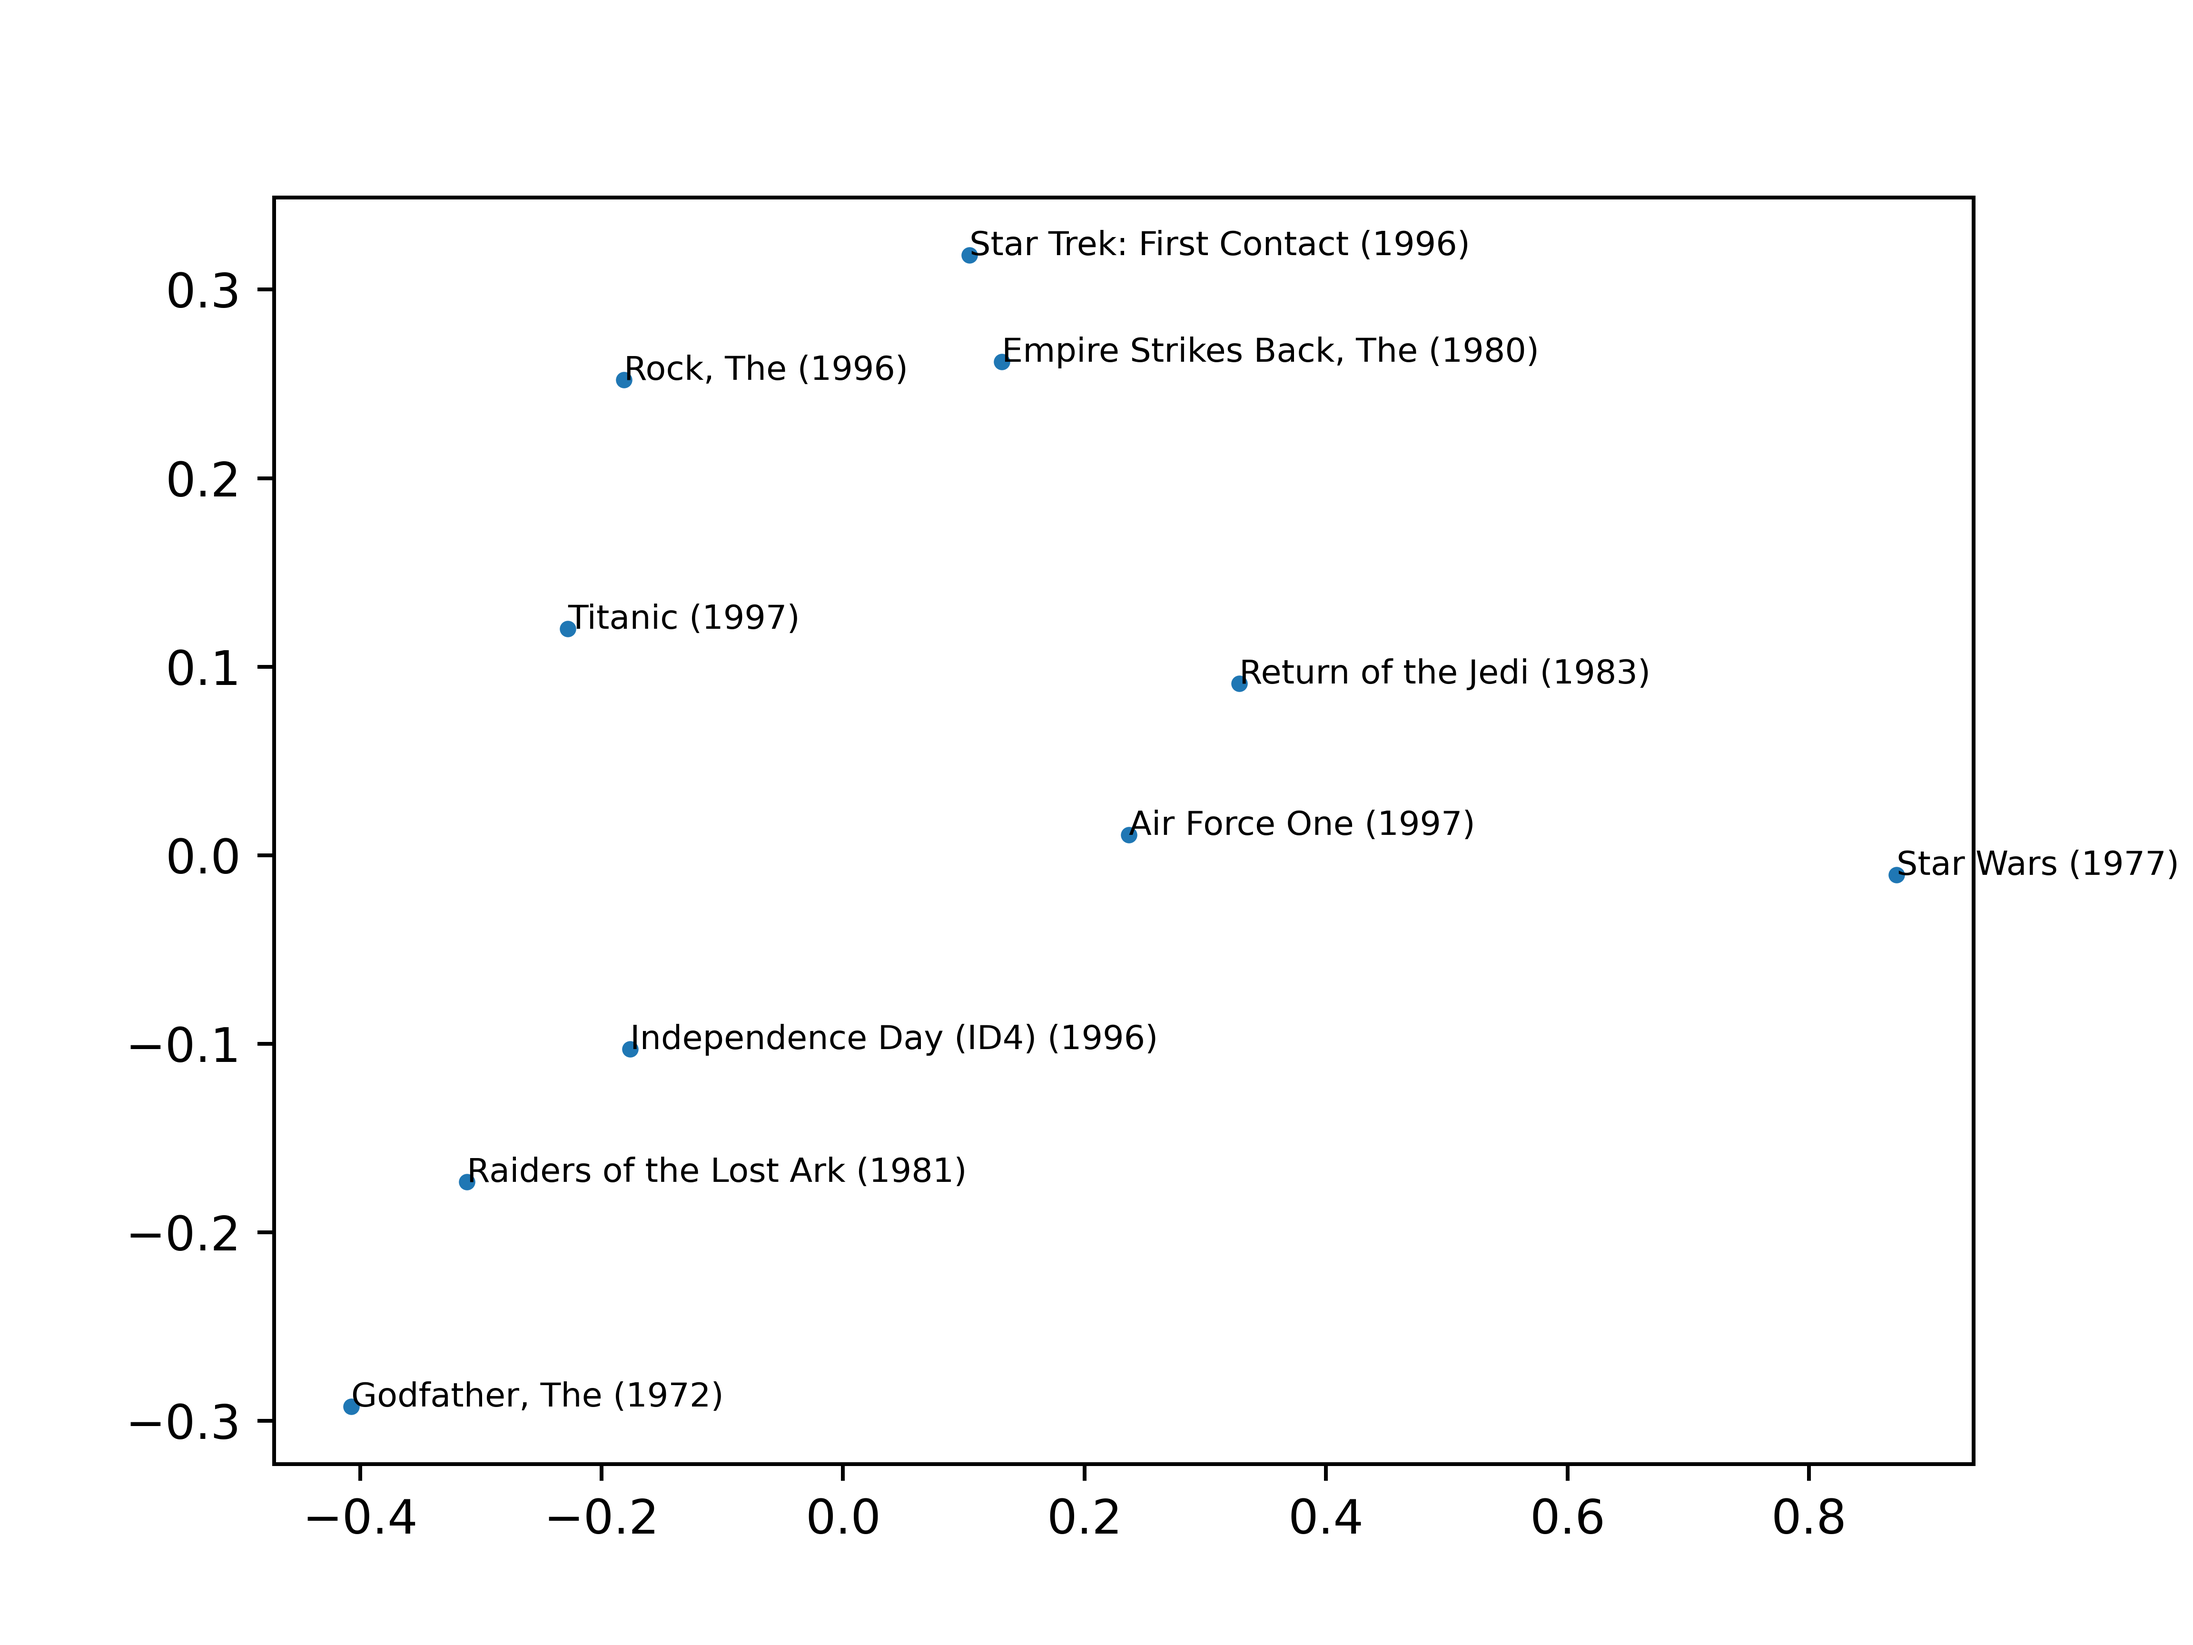
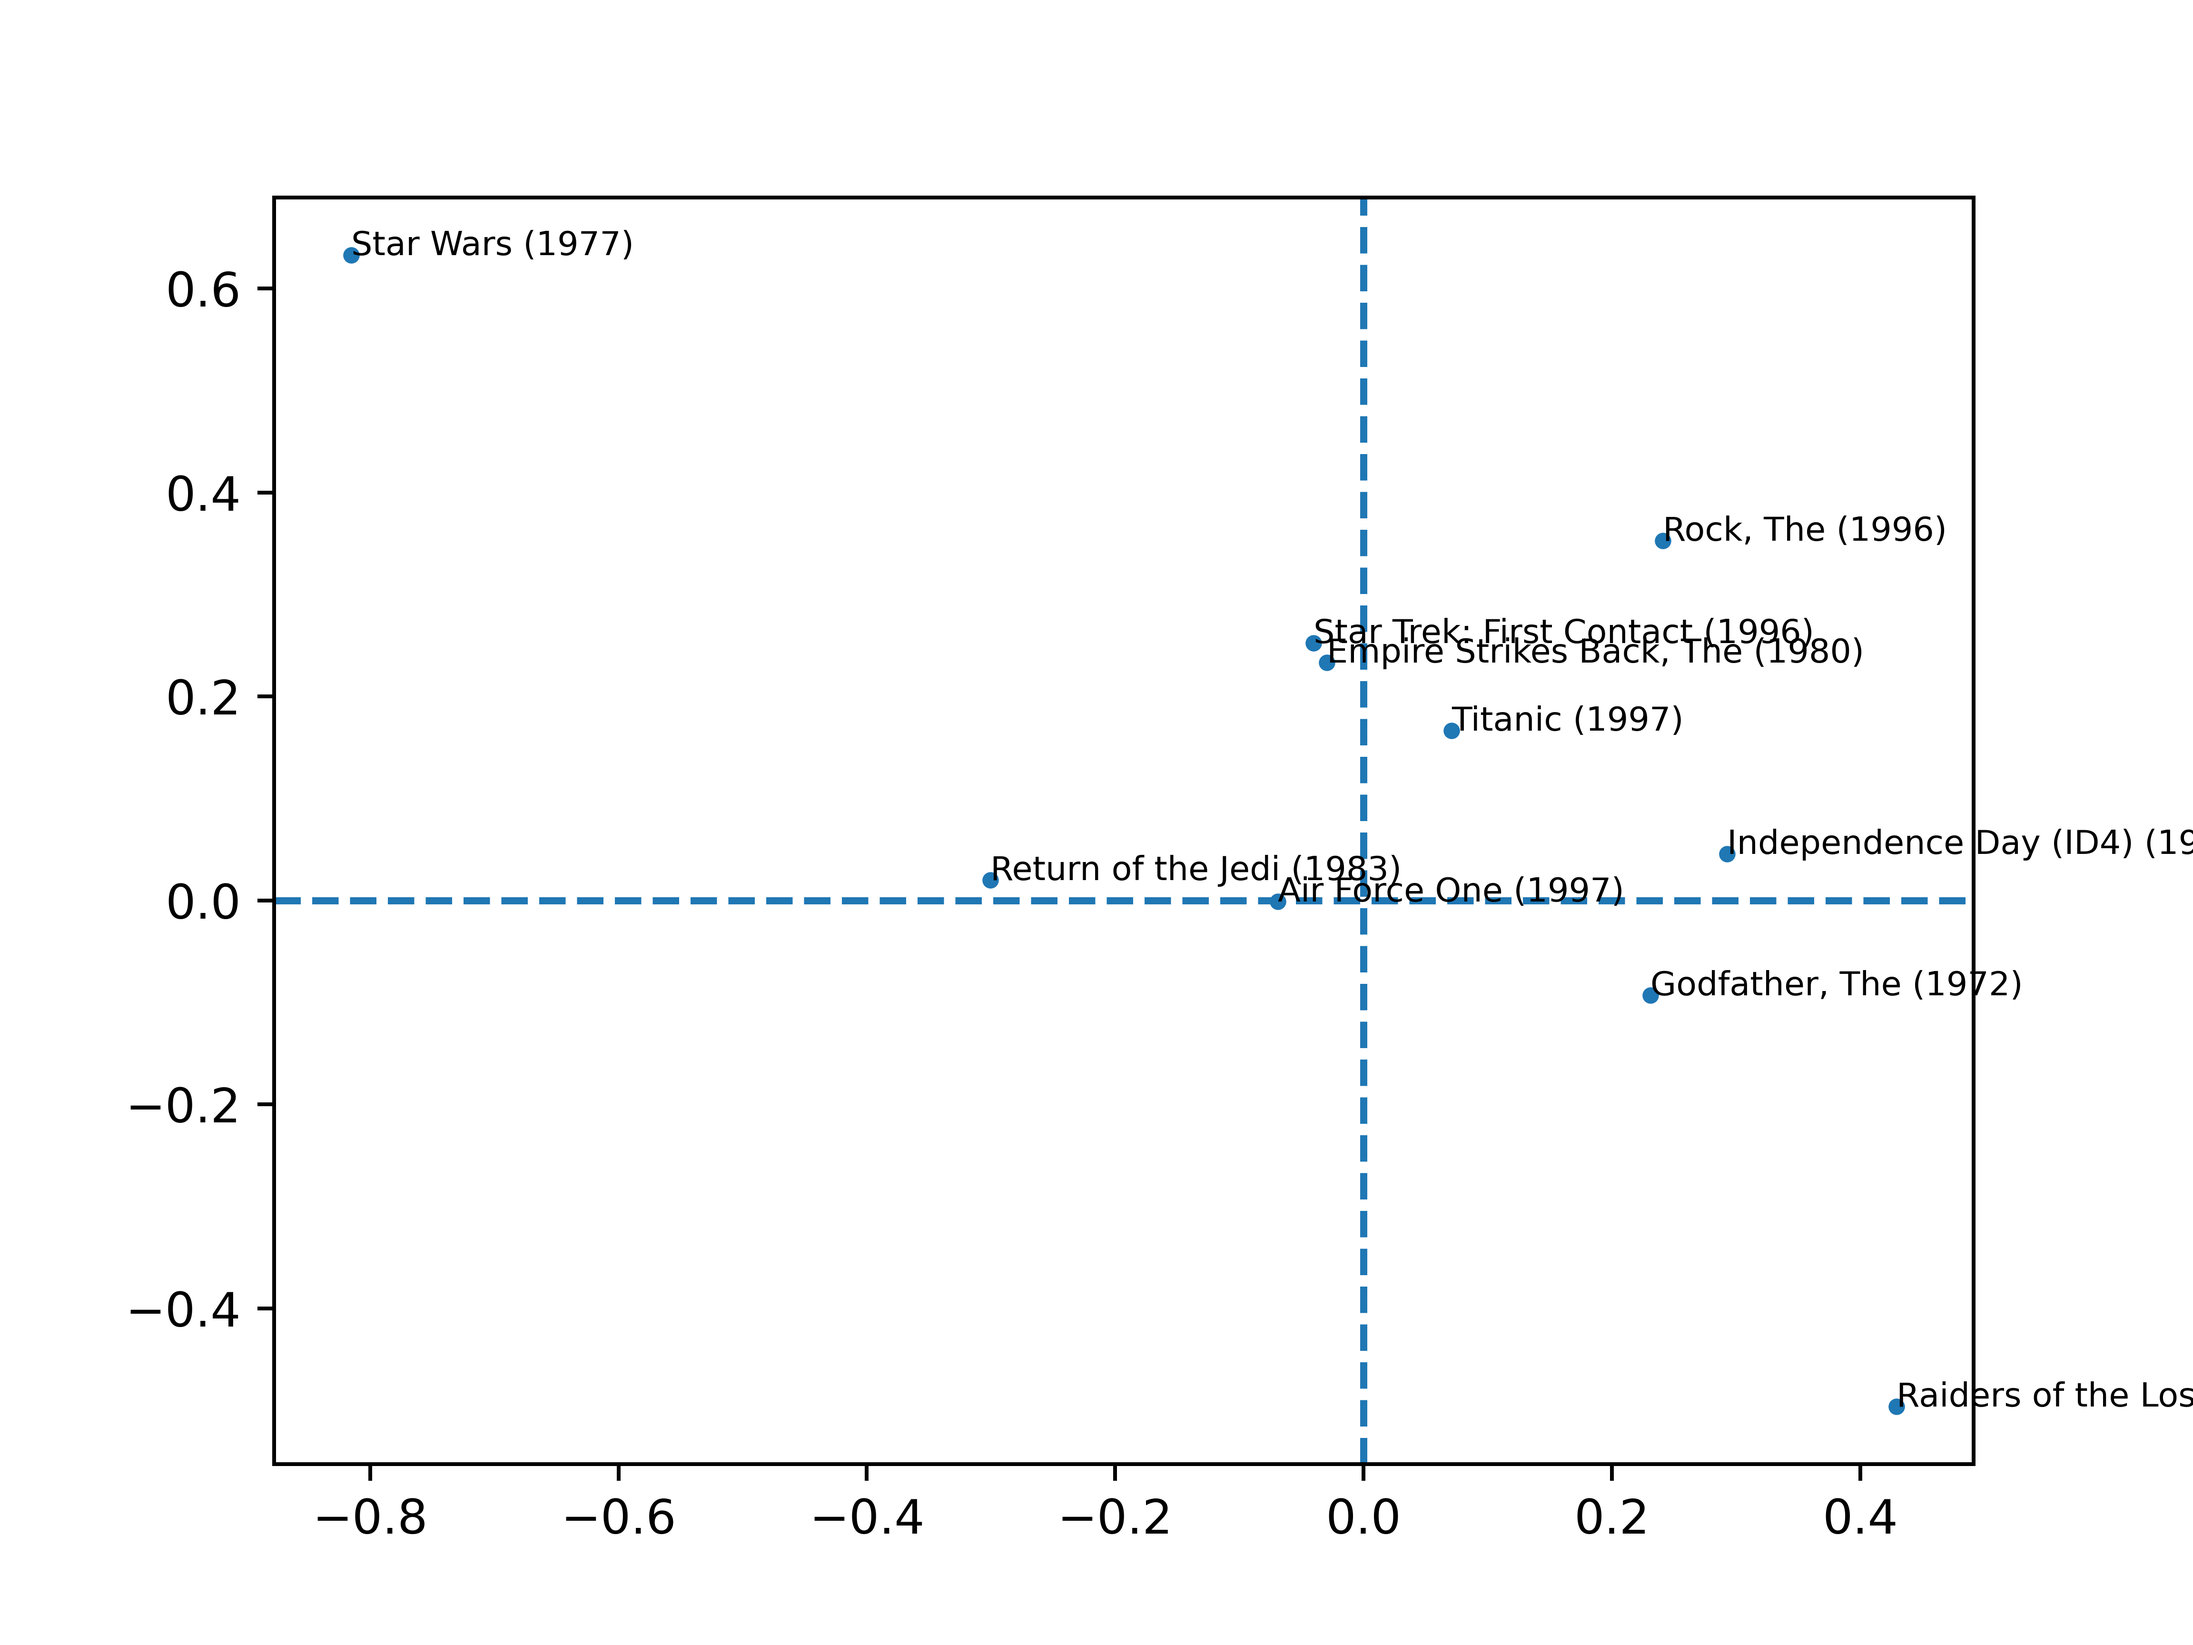
better graphs.

diff --git a/task4.py b/task4.py
@@ -64,6 +64,8 @@ def produce_plot(iids: list, name: str):
         y = V_tilde[1][iid - 1]
         plt.annotate(f"{MOVIES['Movie Title'][iid-1]}", (x, y), fontsize=7)
         plt.scatter(x, y, c="tab:blue", s=6)
+    plt.axvline(x=0, linestyle='--')
+    plt.axhline(y=0, linestyle='--')
     plt.autoscale(enable=True)
     plt.savefig(f'figs/task4-{name}.png', dpi=720)
     plt.cla()
